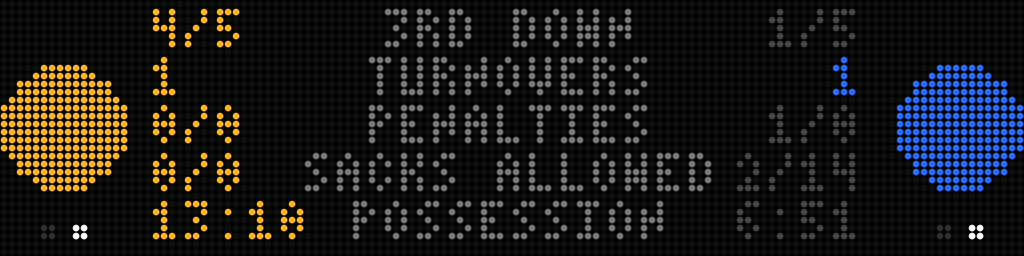
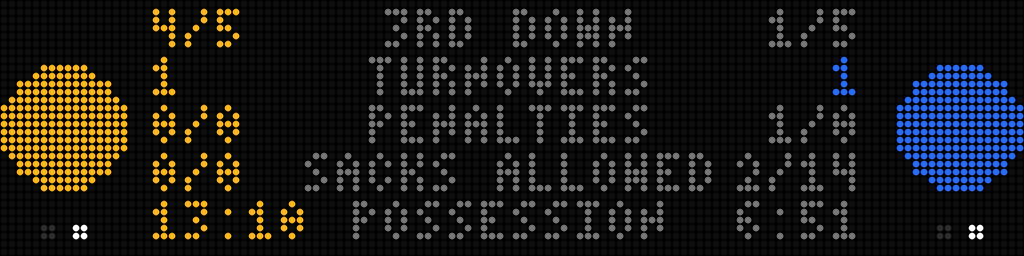
Football team stats: show the trailing side's numbers in the label grey
The side behind on a row was dimmed to (70,70,70), too dark to read on
the panel (the same problem the hockey intermission stats had). It now
uses the grey of the stat's name in the middle. The leader still shows
in their team colour.

Claude-Session: https://claude.ai/code/session_01Euh6oP8NUVn9LuHPaqVPio

diff --git a/src/scoreboard/display/football_stats.py b/src/scoreboard/display/football_stats.py
@@ -30,7 +30,8 @@ ROW_BASELINES = (6, 12, 18, 24, 30)
 #: Where a side's numbers start, clear of its 16px logo.
 LEFT_X, RIGHT_X = 19, 108
 LOGO_CENTRE_Y = 16
-TRAILING = (70, 70, 70)
+#: The side behind on a row shows its number in the stat name's grey: dimmer was unreadable.
+TRAILING = DIM
 LIT_DOT, UNLIT_DOT = WHITE, (45, 45, 45)
 
 
